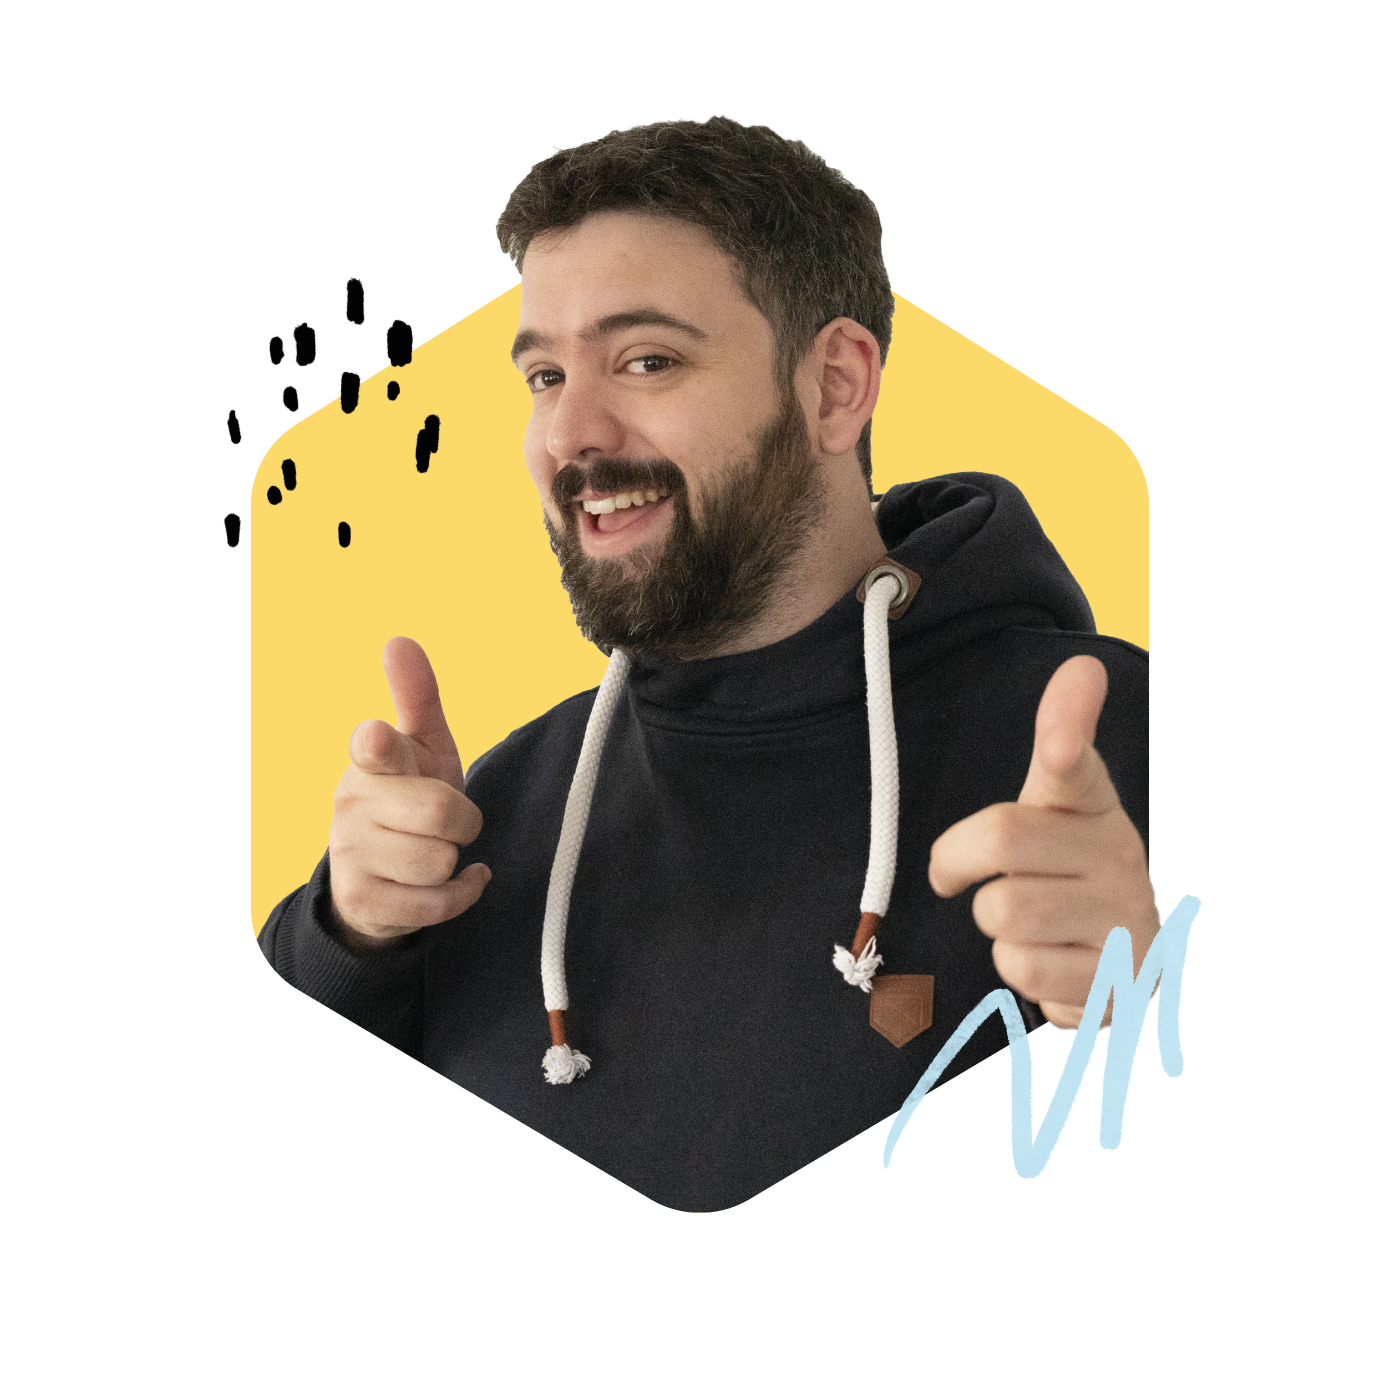
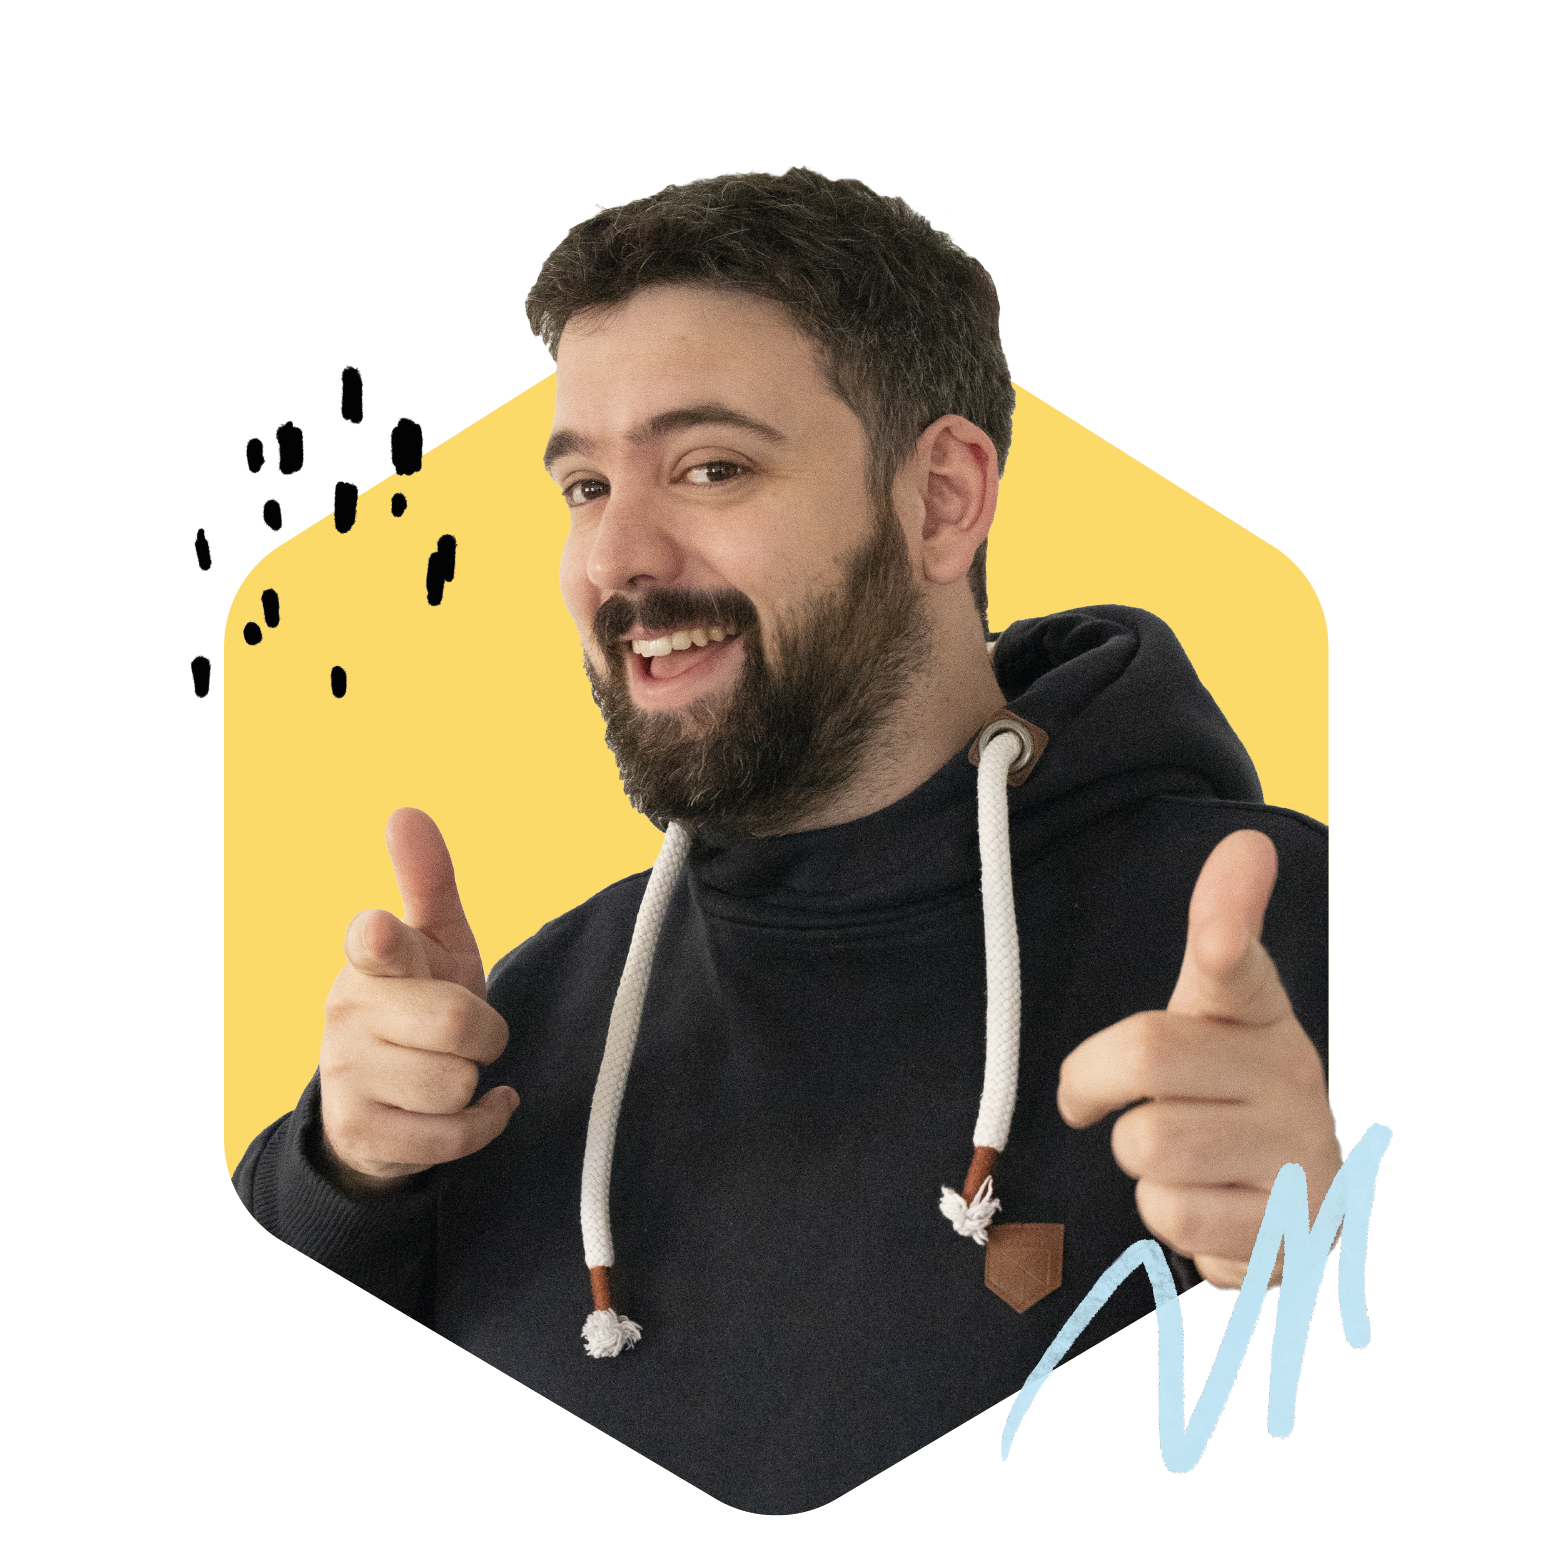
feat:right --DOING

Changed region(s): [[0.1229, 0.0614, 0.8907, 0.9829], [0.215, 0.43, 0.2457, 0.4607]]

diff --git a/css/style.css b/css/style.css
@@ -127,9 +127,10 @@ body {
 
 .left__text {
     grid-area: text;
-    color: #747377;
+    color: #6f6e71;
     font-size: 0.7rem;
     line-height: 1.3rem;
+    font-weight: 500;
 }
 
 .left__text-line {
@@ -198,7 +199,56 @@ body {
 }
 
 .right {
-    background-color: rgba(48, 160, 235, 0.603);
     min-width: 60%;
+    position: relative;
 }
 
+.right__avatar {
+    max-width: 80%;
+    transform: translateY(-5%);
+}
+
+.right__text {
+    position: absolute;
+    top: 15vh;
+    right: 5vw;
+    line-height: 1.5rem;
+    font-weight: 600;
+}
+
+.right__text--one::before {
+    content: '"';
+    margin-right: 5px;
+    font-size: 1.5rem;
+}
+
+.right__text--two::after {
+    content: '"';
+    margin-left: 5px;
+    font-size: 1.5rem;
+}
+
+.right__text-2 {
+    transform: rotate(-90deg);
+    position: absolute;
+    top:65%;
+    right: -5vw;
+    display: flex;
+    align-items: center;
+}
+
+.right__text-2-short-line,
+.right__text-2-long-line {
+    height: 1px;
+    background: #a6a5aa;
+}
+
+.right__text-2-short-line {
+    width: 40px;
+    margin-left: 1rem;
+}
+
+.right__text-2-long-line {
+    width: 150px;
+    margin-left: 0.8rem;
+}

diff --git a/index.html b/index.html
@@ -78,14 +78,16 @@
                 </div>
             </section>
             <section class="right">
-            <!--<img src="images/avatar.png" alt="Avatar de Thomas Lurmeau" class="right__avatar">
-                <p class="right__text">
-                    " People ignore design<br>
-                    that ignores people "
-                </p>
-                <p class="right__text-2">
-                    Scroll Down
-                </p> -->
+                <img src="images/avatar.png" alt="Avatar de Thomas Lurmeau" class="right__avatar">
+                <div class="right__text">
+                    <p class="right__text--one">People ignore design</p>
+                    <p class="right__text--two">that ignores people</p>
+                </div>
+                <div class="right__text-2">
+                    <p>Scroll Down</p>
+                    <div class="right__text-2-short-line"></div>
+                    <div class="right__text-2-long-line"></div>
+                </div> 
             </section>
         </div>
     </div>     
